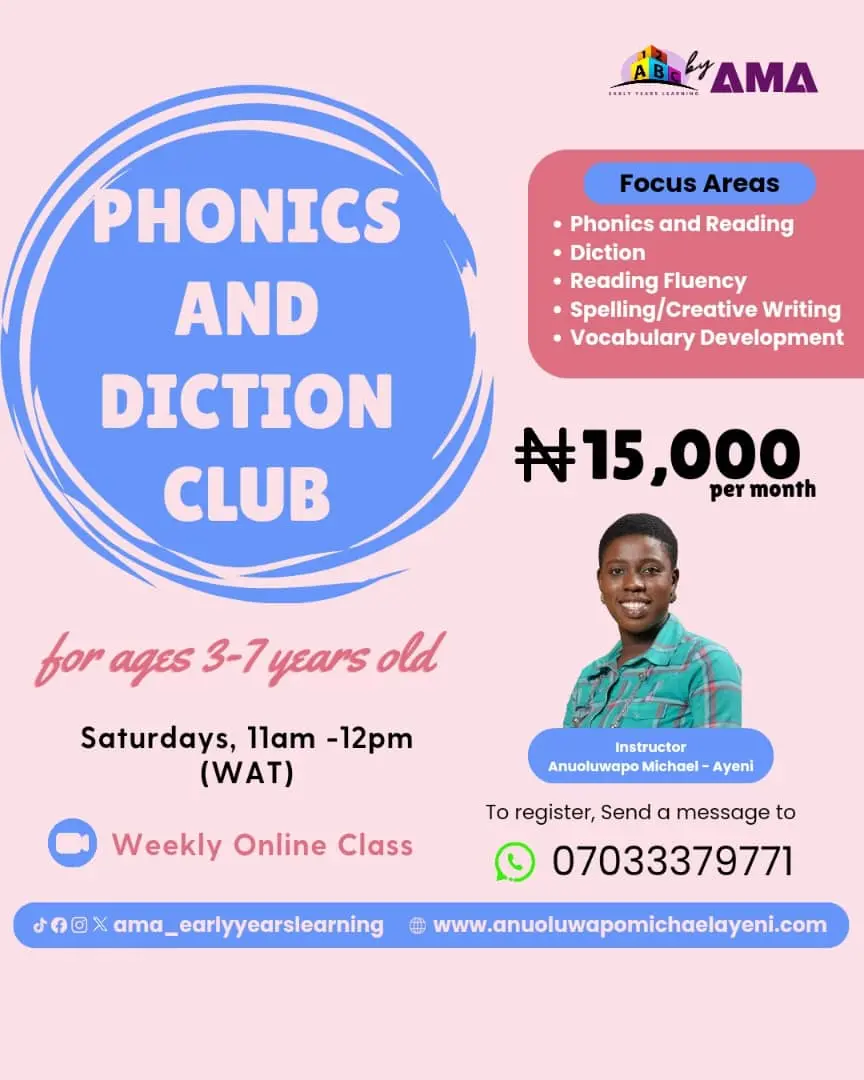
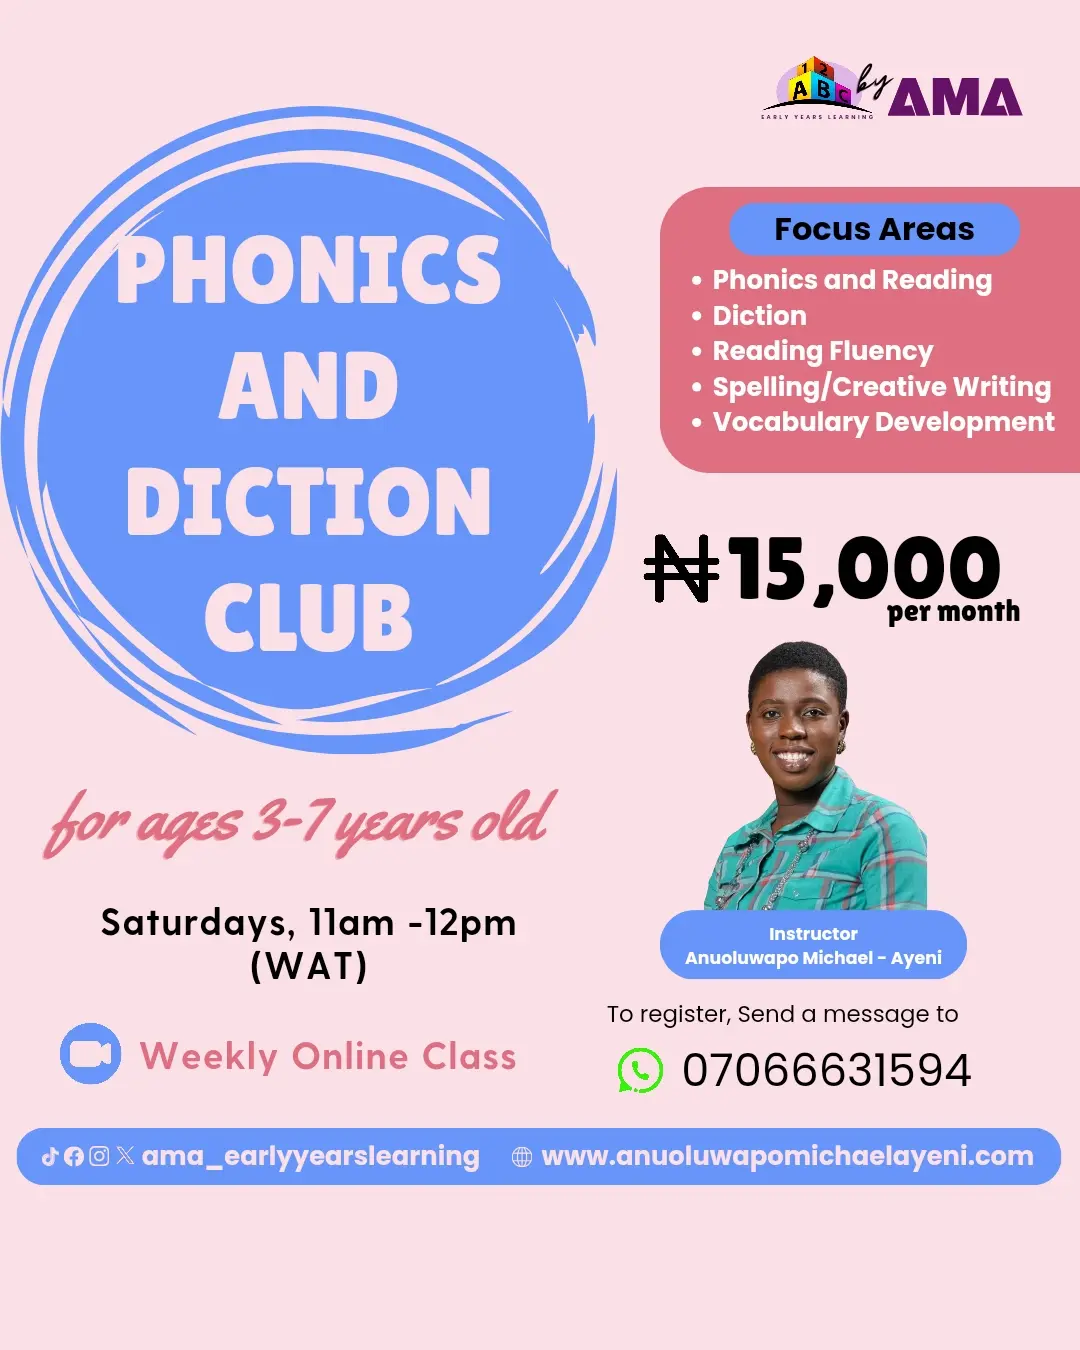
updated whatsapp phone number

diff --git a/src/app/(others)/early-years/_components/data.ts b/src/app/(others)/early-years/_components/data.ts
@@ -7,7 +7,7 @@ import {
   ReadingIntervention,
 } from "@/assets";
 
-const whatsappLink = "https://wa.me/07033379771";
+const whatsappLink = "https://wa.me/07066631594";
 export const data = [
   {
     title: "One-to-One Elocution Course for Educators",
@@ -16,8 +16,7 @@ export const data = [
       "To improve your speaking skills from Fluency to Eloquence, sign up for our one-to-one elocution course for a 5 weeks practical class. You will learn to properly produce the British English sounds and enunciate words correctly. A certificate will be awarded after the completion of the course.",
     ],
     buttonText: "Register",
-    buttonLink:
-      "https://docs.google.com/forms/d/e/1FAIpQLSfVDZllIGMYqPukXU_lRiVlXzXz6wsVIQyuNhTVNDJ2JUS8VQ/viewform",
+    buttonLink: whatsappLink,
     tag: "Training",
   },
   {

diff --git a/src/components/layout/Footer.tsx b/src/components/layout/Footer.tsx
@@ -114,10 +114,10 @@ const Footer = () => {
             <div className="flex flex-col gap-1 mt-4">
               <Link
                 className="hover:underline text-sm font-light"
-                href="tel:+2347033379771"
+                href="tel:+2347066631594"
                 target="_blank"
               >
-                Call me on: +2347033379771
+                Call me on: +2347066631594
               </Link>
               <div className="text-sm font-light">Follow me on:</div>
               <SocialMediaIcons

diff --git a/src/app/(no-footer)/contact/page.tsx b/src/app/(no-footer)/contact/page.tsx
@@ -37,7 +37,7 @@ const ContactPage = () => {
                 </a>
               </p>
               <p>
-                Phone Number: <a href="tel:+2347033379771">+2347033379771</a>
+                Phone Number: <a href="tel:+2347066631594">+2347066631594</a>
               </p>
 
               <p className="mt-10">Mondays to Fridays: 8am - 4pm</p>
